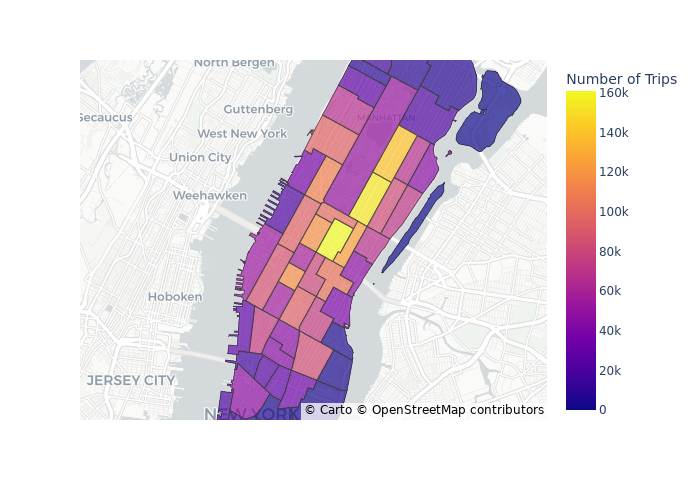
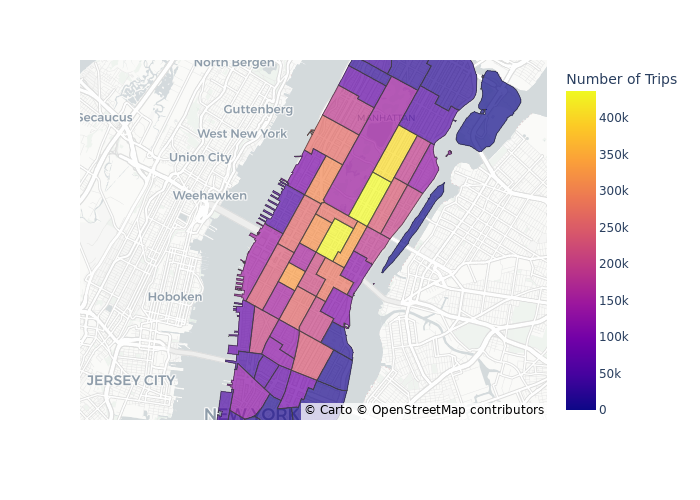
Added partitions and backfills

diff --git a/dagster_university/dagster_university/assets/metrics.py b/dagster_university/dagster_university/assets/metrics.py
@@ -1,7 +1,8 @@
 from dagster import asset
 
 from . import constants
-from dagster import asset
+from ..partitions import weekly_partition
+from dagster import asset, AssetExecutionContext
 from dagster_duckdb import DuckDBResource
 
 import plotly.express as px
@@ -61,45 +62,47 @@ def manhattan_map() -> None:
     pio.write_image(fig, constants.MANHATTAN_MAP_FILE_PATH)
 
 @asset(
-    deps=["taxi_trips"]
+    deps=["taxi_trips"],
+    partitions_def=weekly_partition
 )
-def trips_by_week(database: DuckDBResource) -> None:
-    current_date = datetime.strptime("2023-03-01", constants.DATE_FORMAT)
-    end_date = datetime.strptime("2023-04-01", constants.DATE_FORMAT)
+def trips_by_week(context: AssetExecutionContext, database: DuckDBResource) -> None:
+    """
+      The number of trips per week, aggregated by week.
+    """
 
-    result = pd.DataFrame()
+    period_to_fetch = context.partition_key
 
-    while current_date < end_date:
-        current_date_str = current_date.strftime(constants.DATE_FORMAT)
-        query = f"""
-            select
-                vendor_id, total_amount, trip_distance, passenger_count
-            from trips
-            where date_trunc('week', pickup_datetime) = date_trunc('week', '{current_date_str}'::date)
-        """
+    # get all trips for the week
+    query = f"""
+        select vendor_id, total_amount, trip_distance, passenger_count
+        from trips
+        where pickup_datetime >= '{period_to_fetch}'
+            and pickup_datetime < '{period_to_fetch}'::date + interval '1 week'
+    """
 
-        with database.get_connection() as conn:
-            data_for_week = conn.execute(query).fetch_df()
+    with database.get_connection() as conn:
+        data_for_month = conn.execute(query).fetch_df()
 
-        aggregate = data_for_week.agg({
-            "vendor_id": "count",
-            "total_amount": "sum",
-            "trip_distance": "sum",
-            "passenger_count": "sum"
-        }).rename({"vendor_id": "num_trips"}).to_frame().T # type: ignore
-
-        aggregate["period"] = current_date
-
-        result = pd.concat([result, aggregate])
-
-        current_date += timedelta(days=7)
+    aggregate = data_for_month.agg({
+        "vendor_id": "count",
+        "total_amount": "sum",
+        "trip_distance": "sum",
+        "passenger_count": "sum"
+    }).rename({"vendor_id": "num_trips"}).to_frame().T # type: ignore
 
     # clean up the formatting of the dataframe
-    result['num_trips'] = result['num_trips'].astype(int)
-    result['passenger_count'] = result['passenger_count'].astype(int)
-    result['total_amount'] = result['total_amount'].round(2).astype(float)
-    result['trip_distance'] = result['trip_distance'].round(2).astype(float)
-    result = result[["period", "num_trips", "total_amount", "trip_distance", "passenger_count"]]
-    result = result.sort_values(by="period")
+    aggregate["period"] = period_to_fetch
+    aggregate['num_trips'] = aggregate['num_trips'].astype(int)
+    aggregate['passenger_count'] = aggregate['passenger_count'].astype(int)
+    aggregate['total_amount'] = aggregate['total_amount'].round(2).astype(float)
+    aggregate['trip_distance'] = aggregate['trip_distance'].round(2).astype(float)
+    aggregate = aggregate[["period", "num_trips", "total_amount", "trip_distance", "passenger_count"]]
 
-    result.to_csv(constants.TRIPS_BY_WEEK_FILE_PATH, index=False)
+    try:
+        # If the file already exists, append to it, but replace the existing month's data
+        existing = pd.read_csv(constants.TRIPS_BY_WEEK_FILE_PATH)
+        existing = existing[existing["period"] != period_to_fetch]
+        existing = pd.concat([existing, aggregate]).sort_values(by="period")
+        existing.to_csv(constants.TRIPS_BY_WEEK_FILE_PATH, index=False)
+    except FileNotFoundError:
+        aggregate.to_csv(constants.TRIPS_BY_WEEK_FILE_PATH, index=False)

diff --git a/dagster_university/dagster_university/assets/trips.py b/dagster_university/dagster_university/assets/trips.py
@@ -1,17 +1,21 @@
 import requests
 from . import constants
-from dagster import asset
+from dagster import asset, AssetExecutionContext
 from dagster_duckdb import DuckDBResource
 import duckdb
 import os
 
+from ..partitions import monthly_partition
 
-@asset
-def taxi_trips_file() -> None:
+@asset(
+    partitions_def=monthly_partition
+)
+def taxi_trips_file(context: AssetExecutionContext) -> None:
     """
       The raw parquet files for the taxi trips dataset. Sourced from the NYC Open Data portal.
     """
-    month_to_fetch = "2023-03"
+    partition_date_str = context.partition_key
+    month_to_fetch = partition_date_str[:-3]
     raw_trips = requests.get(
         f"https://d37ci6vzurychx.cloudfront.net/trip-data/yellow_tripdata_{month_to_fetch}.parquet"
     )
@@ -32,31 +36,36 @@ def taxi_zones_file() -> None:
         output_file.write(raw_taxi_zones.content)
 
 @asset(
-    deps=["taxi_trips_file"]
+  deps=["taxi_trips_file"],
+  partitions_def=monthly_partition,
 )
-def taxi_trips(database: DuckDBResource) -> None:
+def taxi_trips(context: AssetExecutionContext, database: DuckDBResource) -> None:
     """
-      The raw taxi trips dataset, loaded into a DuckDB database
+      The raw taxi trips dataset, loaded into a DuckDB database, partitioned by month.
     """
-    sql_query = """
-        create or replace table trips as (
-          select
-            VendorID as vendor_id,
-            PULocationID as pickup_zone_id,
-            DOLocationID as dropoff_zone_id,
-            RatecodeID as rate_code_id,
-            payment_type as payment_type,
-            tpep_dropoff_datetime as dropoff_datetime,
-            tpep_pickup_datetime as pickup_datetime,
-            trip_distance as trip_distance,
-            passenger_count as passenger_count,
-            total_amount as total_amount
-          from 'data/raw/taxi_trips_2023-03.parquet'
-        );
+
+    partition_date_str = context.partition_key
+    month_to_fetch = partition_date_str[:-3]
+
+    query = f"""
+      create table if not exists trips (
+        vendor_id integer, pickup_zone_id integer, dropoff_zone_id integer,
+        rate_code_id double, payment_type integer, dropoff_datetime timestamp,
+        pickup_datetime timestamp, trip_distance double, passenger_count double,
+        total_amount double, partition_date varchar
+      );
+
+      delete from trips where partition_date = '{month_to_fetch}';
+
+      insert into trips
+      select
+        VendorID, PULocationID, DOLocationID, RatecodeID, payment_type, tpep_dropoff_datetime,
+        tpep_pickup_datetime, trip_distance, passenger_count, total_amount, '{month_to_fetch}' as partition_date
+      from '{constants.TAXI_TRIPS_TEMPLATE_FILE_PATH.format(month_to_fetch)}';
     """
 
     with database.get_connection() as conn:
-        conn.execute(sql_query)
+        conn.execute(query)
 
 @asset(
     deps=["taxi_zones_file"]

diff --git a/dagster_university/dagster_university/jobs/__init__.py b/dagster_university/dagster_university/jobs/__init__.py
@@ -1,14 +1,21 @@
-from dagster import AssetSelection
-from dagster import AssetSelection, define_asset_job
+from dagster import define_asset_job, AssetSelection, AssetKey
+from ..partitions import monthly_partition, weekly_partition
 
 trips_by_week = AssetSelection.assets("trips_by_week")
 
 trip_update_job = define_asset_job(
     name="trip_update_job",
-    selection=AssetSelection.all() - trips_by_week
+    partitions_def=monthly_partition, # partitions added here
+    selection=AssetSelection.all() - AssetSelection.assets(["trips_by_week"])
 )
 
 weekly_update_job = define_asset_job(
     name="weekly_update_job",
+    selection=trips_by_week,
+)
+
+weekly_update_job = define_asset_job(
+    name="weekly_update_job",
+    partitions_def=weekly_partition,
     selection=trips_by_week,
 )

diff --git a/dagster_university/dagster_university/partitions/__init__.py b/dagster_university/dagster_university/partitions/__init__.py
@@ -1,0 +1,15 @@
+from dagster import MonthlyPartitionsDefinition, WeeklyPartitionsDefinition
+from ..assets import constants
+
+start_date = constants.START_DATE
+end_date = constants.END_DATE
+
+monthly_partition = MonthlyPartitionsDefinition(
+    start_date=start_date,
+    end_date=end_date
+)
+
+weekly_partition = WeeklyPartitionsDefinition(
+    start_date=start_date,
+    end_date=end_date
+)
